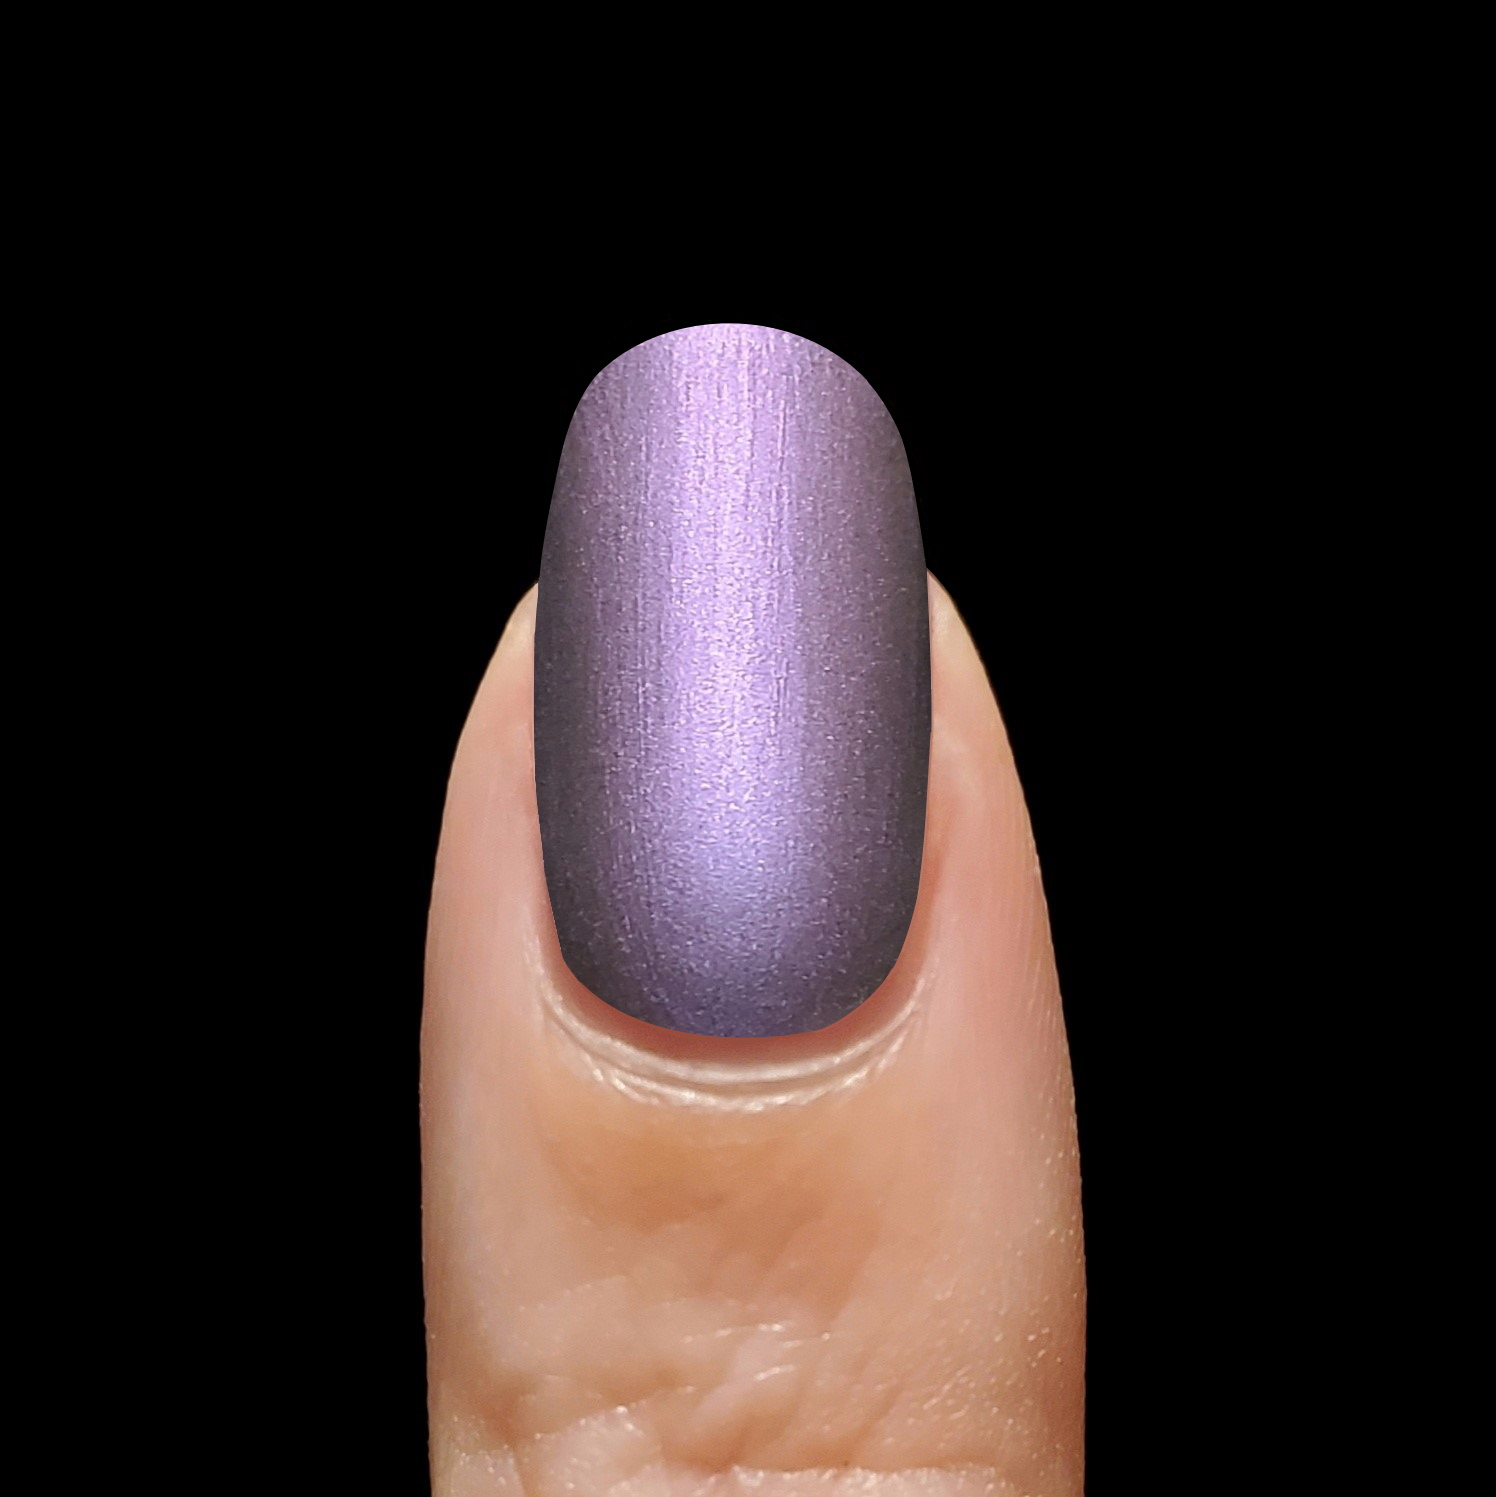
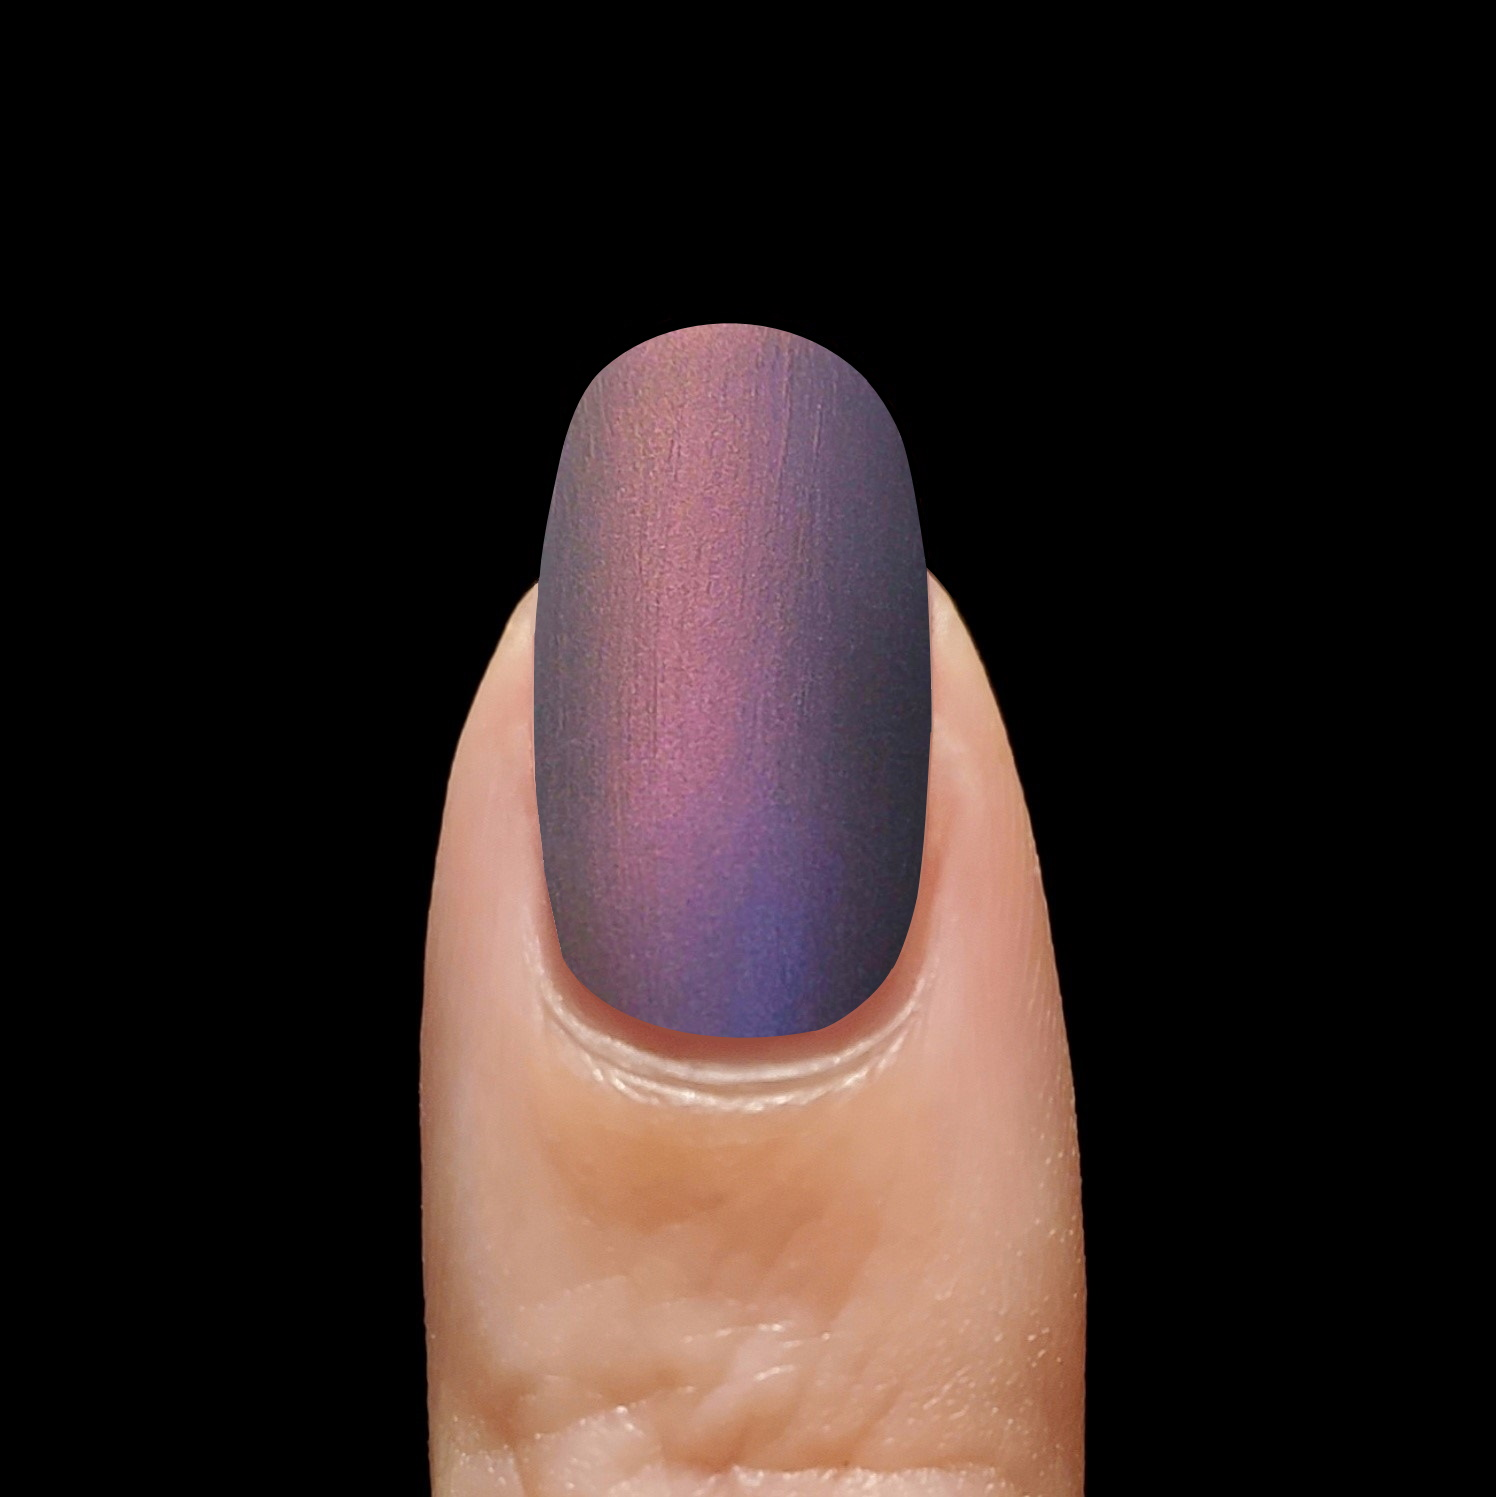
Add back updated multichromes

Changed region(s): [[0.3382, 0.2151, 0.615, 0.7067]]

diff --git a/src/components/Collection.vue b/src/components/Collection.vue
@@ -89,7 +89,7 @@ export default {
   },
   computed: {
     polishes: function() {
-      return this.allPolishes.filter(polish => polish.type != 'Topper' && polish.type != 'Multichrome').sort((a, b) => b.id - a.id);
+      return this.allPolishes.filter(polish => polish.type != 'Topper').sort((a, b) => b.id - a.id);
     }
   },
   methods: {
